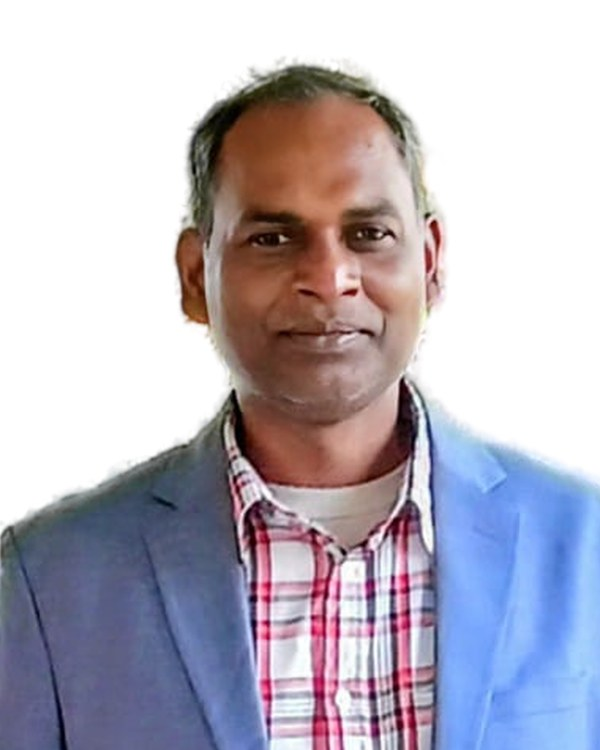
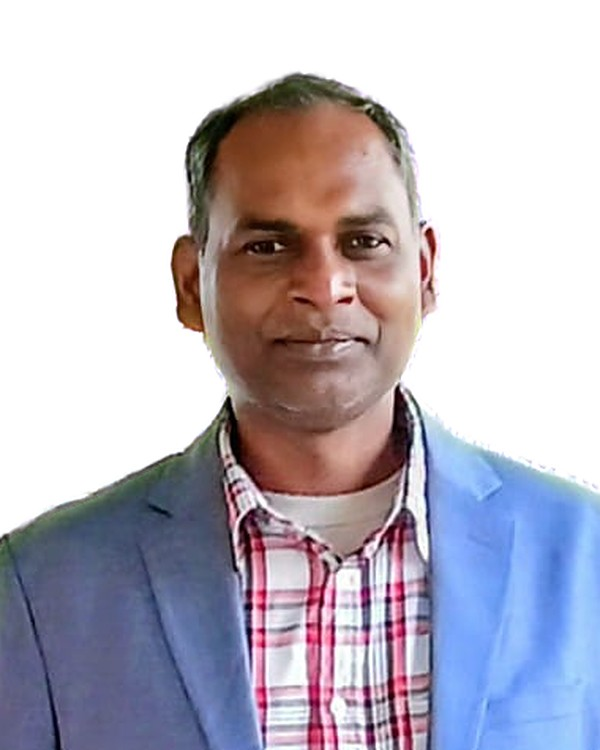
Improve the portrait and add optional visitor statistics
Re-cut Prof. Hafez's photo with a portrait-specific matting model and
colour decontamination at the hair edges, at the original resolution.
Add GoatCounter and Google Analytics support, switched on by filling in
the analytics codes in _config.yml (off until then).

Claude-Session: https://claude.ai/code/session_011cDtMcLHHhAaKfFLiu1eVc

diff --git a/_includes/analytics.html b/_includes/analytics.html
@@ -1,0 +1,20 @@
+{% comment %}
+  Visitor statistics. Turned on by filling in "analytics" in _config.yml.
+  Only runs on the live site (not when previewing locally).
+{% endcomment %}
+{% if jekyll.environment == "production" %}
+{% assign gc = site.analytics.goatcounter | strip %}
+{% if gc != "" %}
+<script data-goatcounter="https://{{ gc }}.goatcounter.com/count" async src="https://gc.zgo.at/count.js"></script>
+{% endif %}
+{% assign ga = site.analytics.google | strip %}
+{% if ga != "" %}
+<script async src="https://www.googletagmanager.com/gtag/js?id={{ ga }}"></script>
+<script>
+  window.dataLayer = window.dataLayer || [];
+  function gtag(){dataLayer.push(arguments);}
+  gtag('js', new Date());
+  gtag('config', '{{ ga }}');
+</script>
+{% endif %}
+{% endif %}

diff --git a/_layouts/default.html b/_layouts/default.html
@@ -12,6 +12,7 @@
   <link rel="apple-touch-icon" href="{{ '/assets/img/logo/apple-touch-icon.png' | relative_url }}">
   <link rel="preload" href="{{ '/assets/fonts/cmu-serif-500-roman.woff2' | relative_url }}" as="font" type="font/woff2" crossorigin>
   <link rel="stylesheet" href="{{ '/assets/css/main.css' | relative_url }}">
+  {% include analytics.html %}
   {% if page.math %}
   <link rel="stylesheet" href="{{ '/assets/vendor/katex/katex.min.css' | relative_url }}">
   <script defer src="{{ '/assets/vendor/katex/katex.min.js' | relative_url }}"></script>

diff --git a/README.md b/README.md
@@ -52,6 +52,20 @@ top showing the format.
 - Equations are written in LaTeX: `$$ u_t + 6uu_x + u_{xxx} = 0 $$` in the
   research pages.
 
+### Visitor statistics
+
+The site can count visitors with [GoatCounter](https://www.goatcounter.com)
+(free, simple, no cookie banner needed) and/or Google Analytics 4. Sign up,
+then put your code in `_config.yml` under `analytics:`:
+
+```yaml
+analytics:
+  goatcounter: "mpblab"        # your GoatCounter code
+  google: "G-XXXXXXXXXX"       # your Google Analytics measurement ID
+```
+
+Leave a value empty to turn that service off.
+
 ### Adding a photo
 
 1. Open `assets/img/people/` on GitHub and click **Add file → Upload files**.
